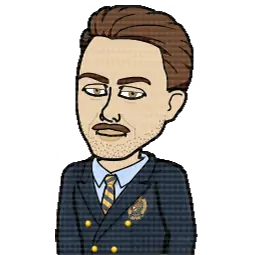
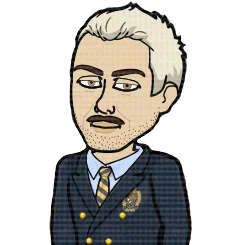
feature: update media (#55)
* feature: Updated David avatar, added 3 customer logos and updated mLink video

* run prettier

Changed region(s): [[0.2, 0.0, 0.8, 1.0], [0.4857, 0.7714, 0.6, 0.9143]]

diff --git a/src/lib/index/Customers.svelte b/src/lib/index/Customers.svelte
@@ -98,10 +98,18 @@
         />
       </a>
 
-      <a href="http://www.glb.ch/" class="col-span-1 flex items-center justify-center py-8 px-8 filter grayscale">
+      <a
+        href="http://www.glb.ch/"
+        target="_blank"
+        class="col-span-1 flex items-center justify-center py-8 px-8 filter grayscale"
+      >
         <img height="80" class="max-h-16" src="/img/customer/glb-logo.svg" loading="lazy" alt="glb" />
       </a>
-      <a href="http://www.ebl.ch/" class="col-span-1 flex items-center justify-center py-8 px-8 filter grayscale">
+      <a
+        href="http://www.ebl.ch/"
+        target="_blank"
+        class="col-span-1 flex items-center justify-center py-8 px-8 filter grayscale"
+      >
         <img height="80" class="max-h-16" src="/img/customer/ebl-logo.svg" loading="lazy" alt="ebl" />
       </a>
       <a
@@ -110,6 +118,28 @@
         class="col-span-1 flex items-center justify-center py-8 px-8 filter grayscale"
       >
         <img height="80" class="max-h-10" src="/img/customer/dorean-logo.svg" loading="lazy" alt="dorean" />
+      </a>
+
+      <a
+        href="https://www.volvotrucks.com/"
+        target="_blank"
+        class="col-span-1 flex items-center justify-center py-8 px-8 filter grayscale"
+      >
+        <img height="80" class="max-h-24" src="/img/customer/volvo-logo.png" loading="lazy" alt="volvo" />
+      </a>
+      <a
+        href="https://espacereal.ch/"
+        target="_blank"
+        class="col-span-1 flex items-center justify-center py-8 px-8 filter grayscale"
+      >
+        <img height="80" class="max-h-10" src="/img/customer/espace-logo.svg" loading="lazy" alt="espace" />
+      </a>
+      <a
+        href="https://www.schindler.com/"
+        target="_blank"
+        class="col-span-1 flex items-center justify-center py-8 px-8 filter grayscale"
+      >
+        <img height="80" class="max-h-28" src="/img/customer/schindler-logo.png" loading="lazy" alt="schindler" />
       </a>
     </div>
   </div>

diff --git a/src/lib/index/TeamMembers.svelte b/src/lib/index/TeamMembers.svelte
@@ -57,14 +57,14 @@
       nerdImage: 'img/avatars/mattia.png',
       onlyInNerdMode: false,
     },
-    {
-      name: 'Warwara Panyushkina',
-      job: 'Software Developer',
-      nerdJob: 'Software Developer',
-      image: 'img/avatars/warwara.png',
-      nerdImage: 'img/avatars/warwara.png',
-      onlyInNerdMode: false,
-    },
+    // {
+    //   name: 'Warwara Panyushkina',
+    //   job: 'Software Developer',
+    //   nerdJob: 'Software Developer',
+    //   image: 'img/avatars/warwara.png',
+    //   nerdImage: 'img/avatars/warwara.png',
+    //   onlyInNerdMode: false,
+    // },
     {
       name: 'Andrea Honegger',
       job: 'Software Developer',

diff --git a/src/lib/index/Mlink.svelte b/src/lib/index/Mlink.svelte
@@ -18,8 +18,8 @@
       style="height: 100%; width: 100%"
       data-poster="img/thumbnail/mlink-1080-poster.png"
     >
-      <source src="https://storage.googleapis.com/triarc-website/mlink-1080.webm" type="video/webm" />
-      <source src="https://storage.googleapis.com/triarc-website/mlink.mp4" type="video/mp4" />
+      <source src="https://storage.googleapis.com/triarc-website/mlink-1080-v2.webm" type="video/webm" />
+      <source src="https://storage.googleapis.com/triarc-website/mlink-v2.mp4" type="video/mp4" />
     </video>
   </div>
   <div class="relative max-w-7xl mx-auto px-5 py-4 sm:px-6 lg:px-8 md:w-1/2 lg:w-1/2 sm:w-full ">

diff --git a/README.md b/README.md
@@ -14,9 +14,9 @@ npm run dev
 # mLink video convert
 
 ```
-ffmpeg -i Triarc_Labs_Mlink_HD.mp4 -vf scale=320:-1 -c:v libvpx -qmin 0 -qmax 25 -crf 4 -b:v 1M -c:a libvorbis -threads 0 static/video/mlink-320.ebm
-ffmpeg -i Triarc_Labs_Mlink_HD.mp4 -vf scale=720:-1 -c:v libvpx -qmin 0 -qmax 25 -crf 4 -b:v 1M -c:a libvorbis -threads 0 static/video/mlink-720.ebm
-ffmpeg -i Triarc_Labs_Mlink_HD.mp4 -vf scale=1080:-1 -c:v libvpx -qmin 0 -qmax 25 -crf 4 -b:v 1M -c:a libvorbis -threads 0 static/video/mlink-1080.ebm
+ffmpeg -i Triarc_Labs_Mlink_HD.mp4 -vf scale=320:-1 -c:v libvpx -qmin 0 -qmax 25 -crf 4 -b:v 1M -c:a libvorbis -threads 0 static/video/mlink-320.webm
+ffmpeg -i Triarc_Labs_Mlink_HD.mp4 -vf scale=720:-1 -c:v libvpx -qmin 0 -qmax 25 -crf 4 -b:v 1M -c:a libvorbis -threads 0 static/video/mlink-720.webm
+ffmpeg -i Triarc_Labs_Mlink_HD.mp4 -vf scale=1080:-1 -c:v libvpx -qmin 0 -qmax 25 -crf 4 -b:v 1M -c:a libvorbis -threads 0 static/video/mlink-1080.webm
 ```
 
 # mLink video poster generation
